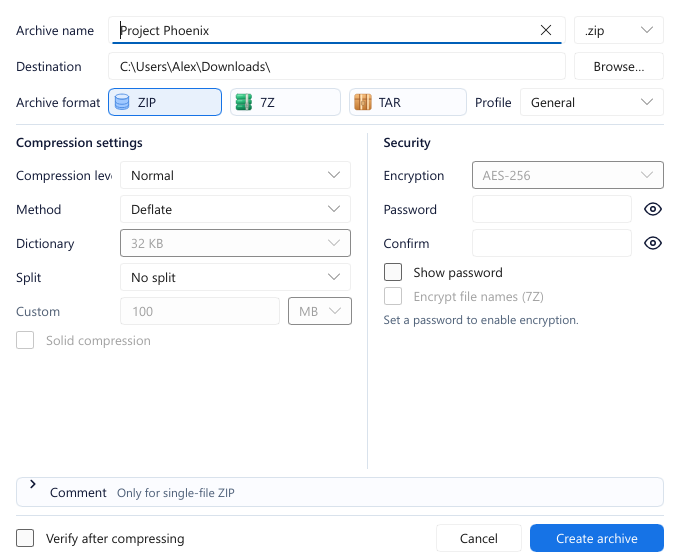
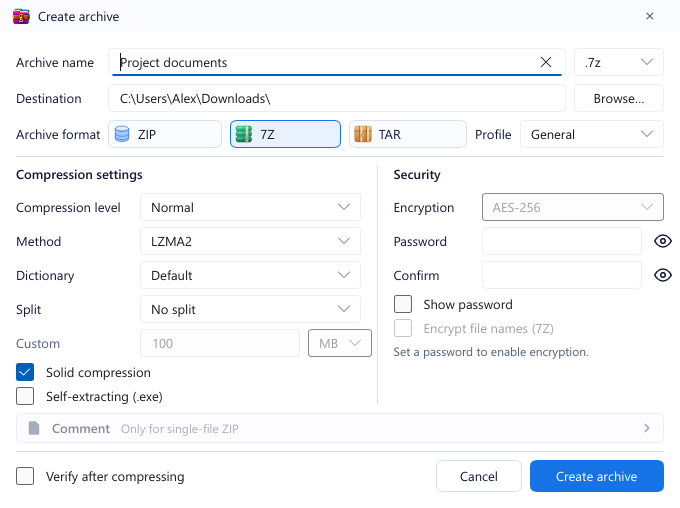
Ảnh Tạo nén mới đúng mockup 13 (7Z, Cân bằng, LZMA2, solid); tên tuỳ chọn tiếng Anh theo app

diff --git a/src/content/guide/en/create.md b/src/content/guide/en/create.md
@@ -15,7 +15,7 @@ From Home, choose **Create archive…**, or use the **Add to archive…** right-
 1. Enter the **File name** and choose an extension in the adjacent box: `.zip`, `.7z`, `.tar` or `.exe` for a self-extracting archive made from 7Z.
 2. Choose **Save to**, using **Browse…** to select a folder.
 3. Select one of the three format cards: **ZIP**, **7Z**, **TAR**.
-4. Choose a **Preset**: **Balanced**, **Maximum compression**, **Fast** or **Store**.
+4. Choose a **Profile**: **General**, **Maximum compression**, **Fast** or **Store**.
 5. Adjust the two columns below if needed, then click **Create archive**. Click **Cancel** to close the dialog.
 
 The defaults are ZIP, compression level 5, Deflate, no splitting and no encryption.
@@ -33,7 +33,7 @@ The defaults are ZIP, compression level 5, Deflate, no splitting and no encrypti
 
 - **Encryption**: ZIP supports ZipCrypto or AES-256; 7Z supports AES-256.
 - Enter the **Password** and **Confirm password**; use the eye buttons or **Show password** to check them.
-- **Hide file names (7Z)**: protects the file name list in a 7Z archive.
+- **Encrypt file names (7Z)**: protects the file name list in a 7Z archive.
 
 ## Comment and verification
 

diff --git a/src/content/guide/en/passwords.md b/src/content/guide/en/passwords.md
@@ -10,7 +10,7 @@ In the **Security** column of the **Create archive** dialog:
 
 1. Choose **Encryption**: ZIP offers ZipCrypto or AES-256; 7Z offers AES-256.
 2. Enter the **Password** and **Confirm password**.
-3. For 7Z, enable **Hide file names (7Z)** to protect the file name list as well.
+3. For 7Z, enable **Encrypt file names (7Z)** to protect the file name list as well.
 
 Use the eye buttons or **Show password** to check your input. TAR has no encryption option.
 
